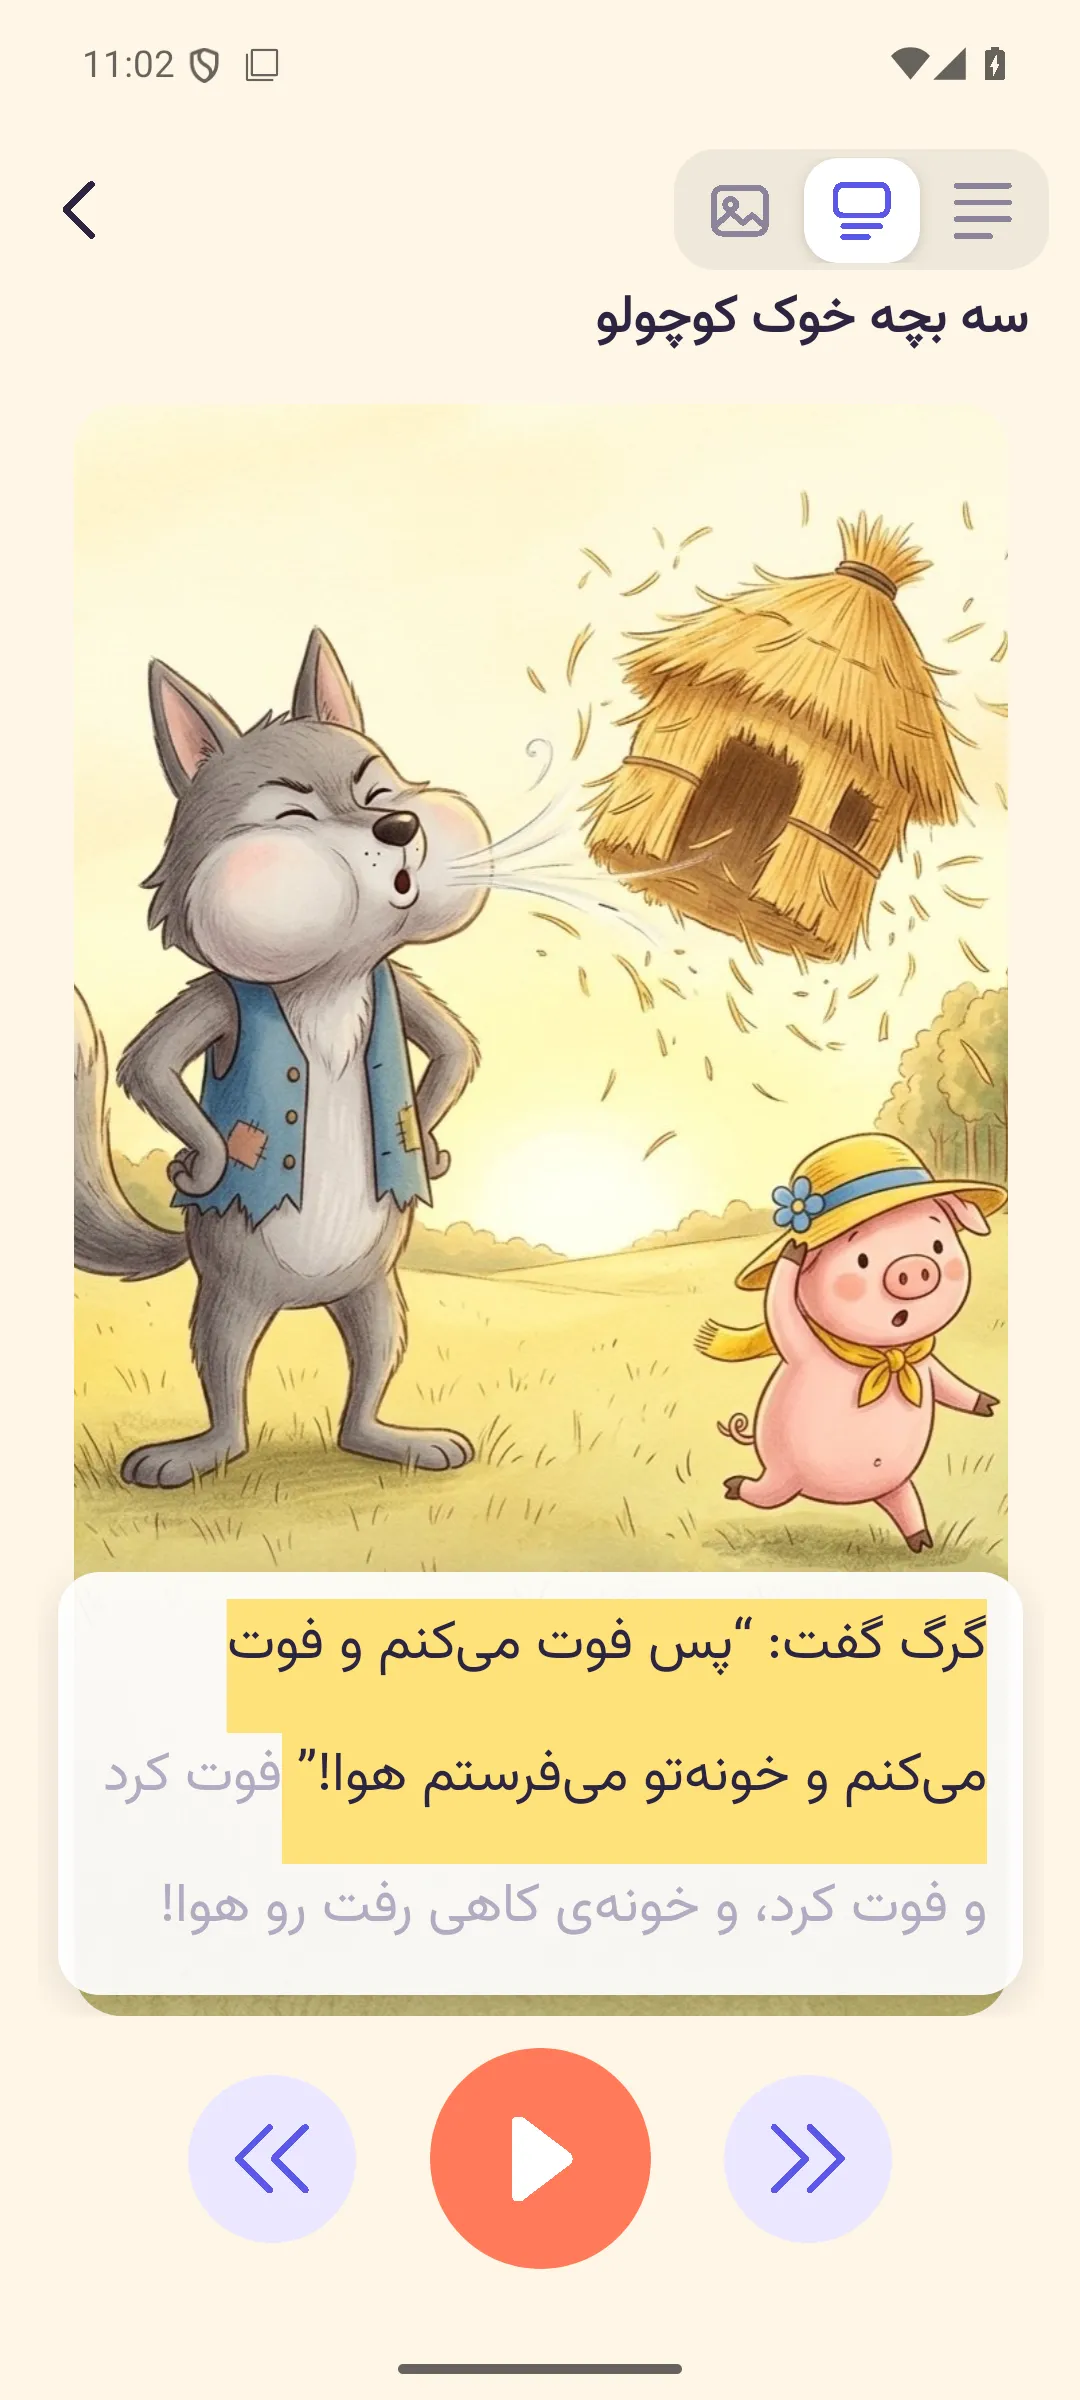
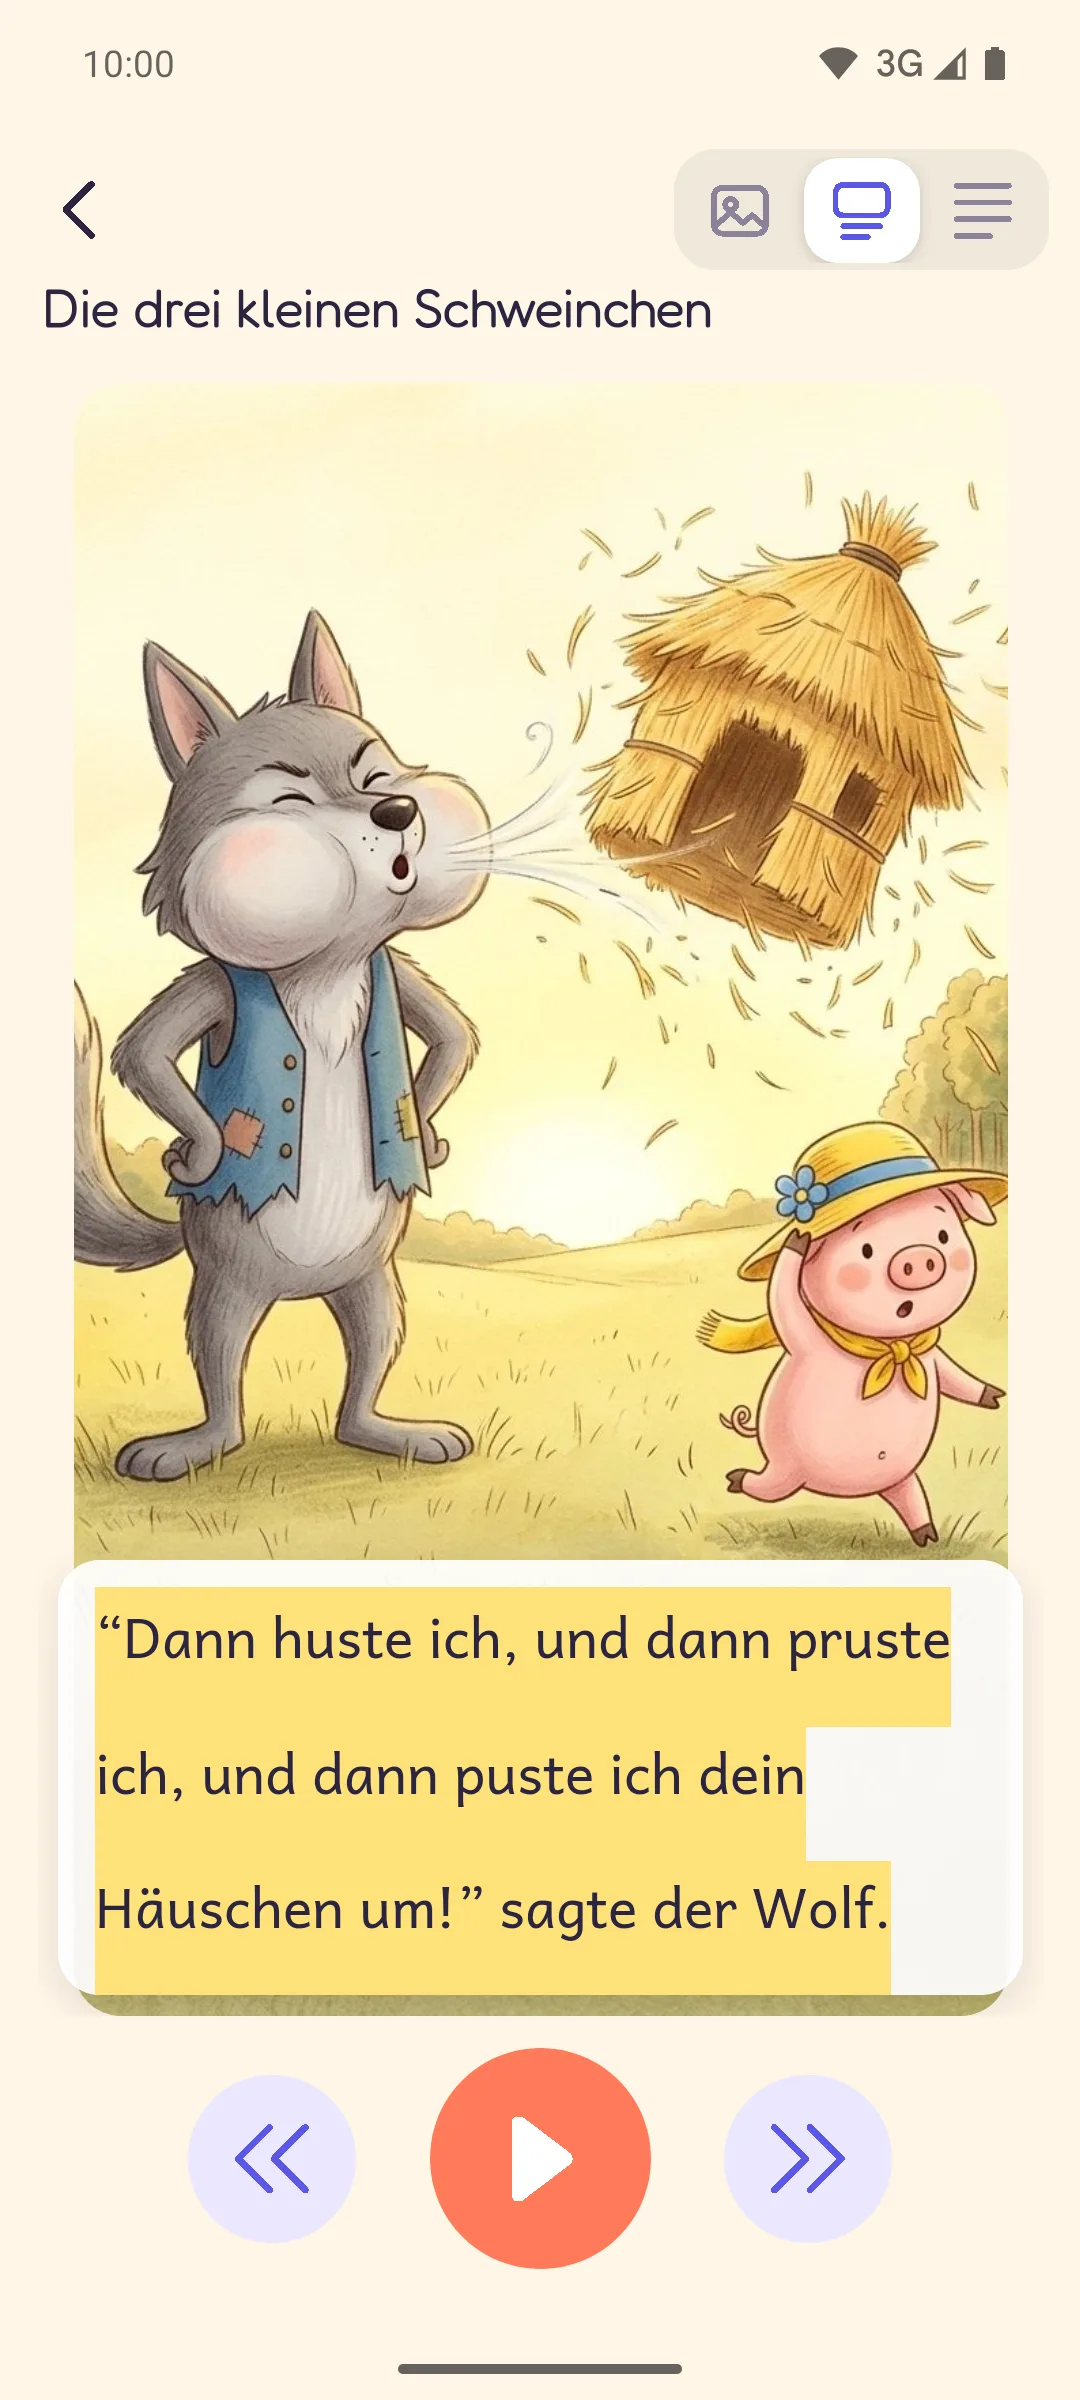
feat(dino): retaken screenshots on the Dino page

diff --git a/src/data/products.ts b/src/data/products.ts
@@ -341,7 +341,7 @@ export const products: Product[] = [
     displayUrl: 'dinoreader.sirous.uk',
     screenshot: dinoShot,
     screenshotAlt:
-      "Dino: Kids Books & Stories on a phone: the kids' shelf, My stories, with the illustrated covers of four books.",
+      "Dino: Kids Books & Stories on a phone: the kids' shelf, My stories, with illustrated story covers to choose from.",
     panel: 'dino',
     audience: 'For ages 3 to 9',
     platforms: [
@@ -395,7 +395,7 @@ export const products: Product[] = [
       {
         image: dinoStep3,
         title: 'Your language.',
-        body: 'Read the same story in any of fifteen languages; here it is in Farsi, read right to left.',
+        body: 'Read the same story in any of fifteen languages; here is the same story in German.',
       },
       {
         image: dinoStep4,
